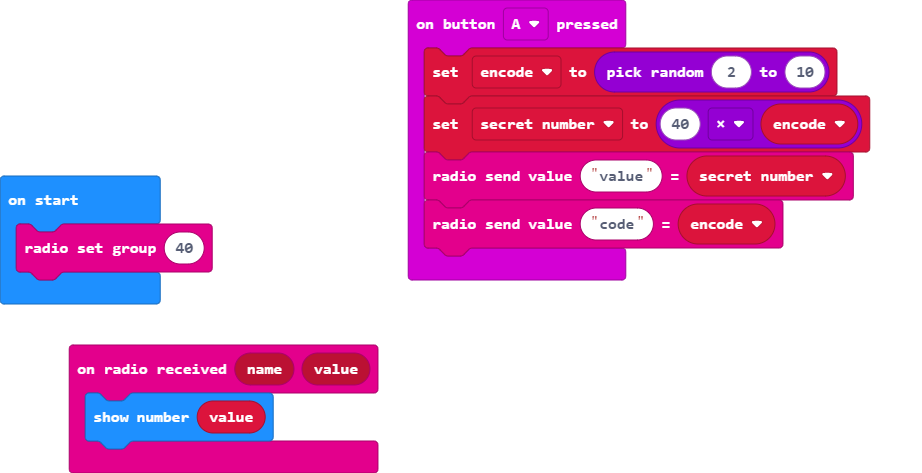
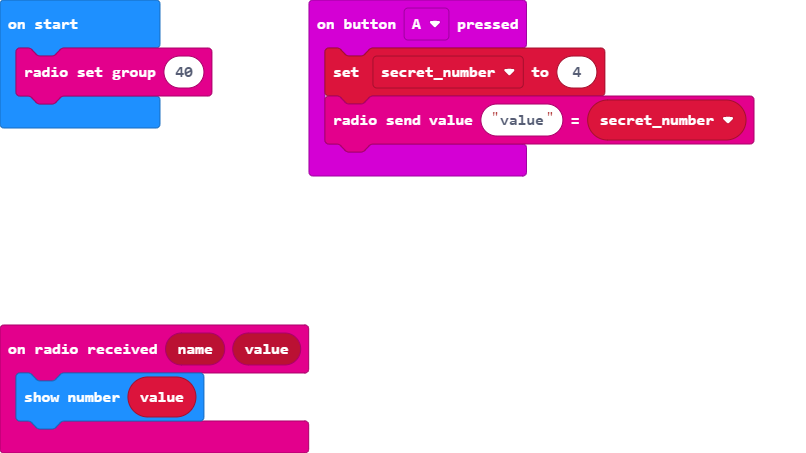
Update main.blocks, main.ts

diff --git a/main.ts b/main.ts
@@ -1,12 +1,9 @@
 input.onButtonPressed(Button.A, function () {
-    encode = randint(2, 10)
-    secret_number = 40 * encode
+    secret_number = 4
     radio.sendValue("value", secret_number)
-    radio.sendValue("code", encode)
 })
 radio.onReceivedValue(function (name, value) {
     basic.showNumber(value)
 })
 let secret_number = 0
-let encode = 0
 radio.setGroup(40)
